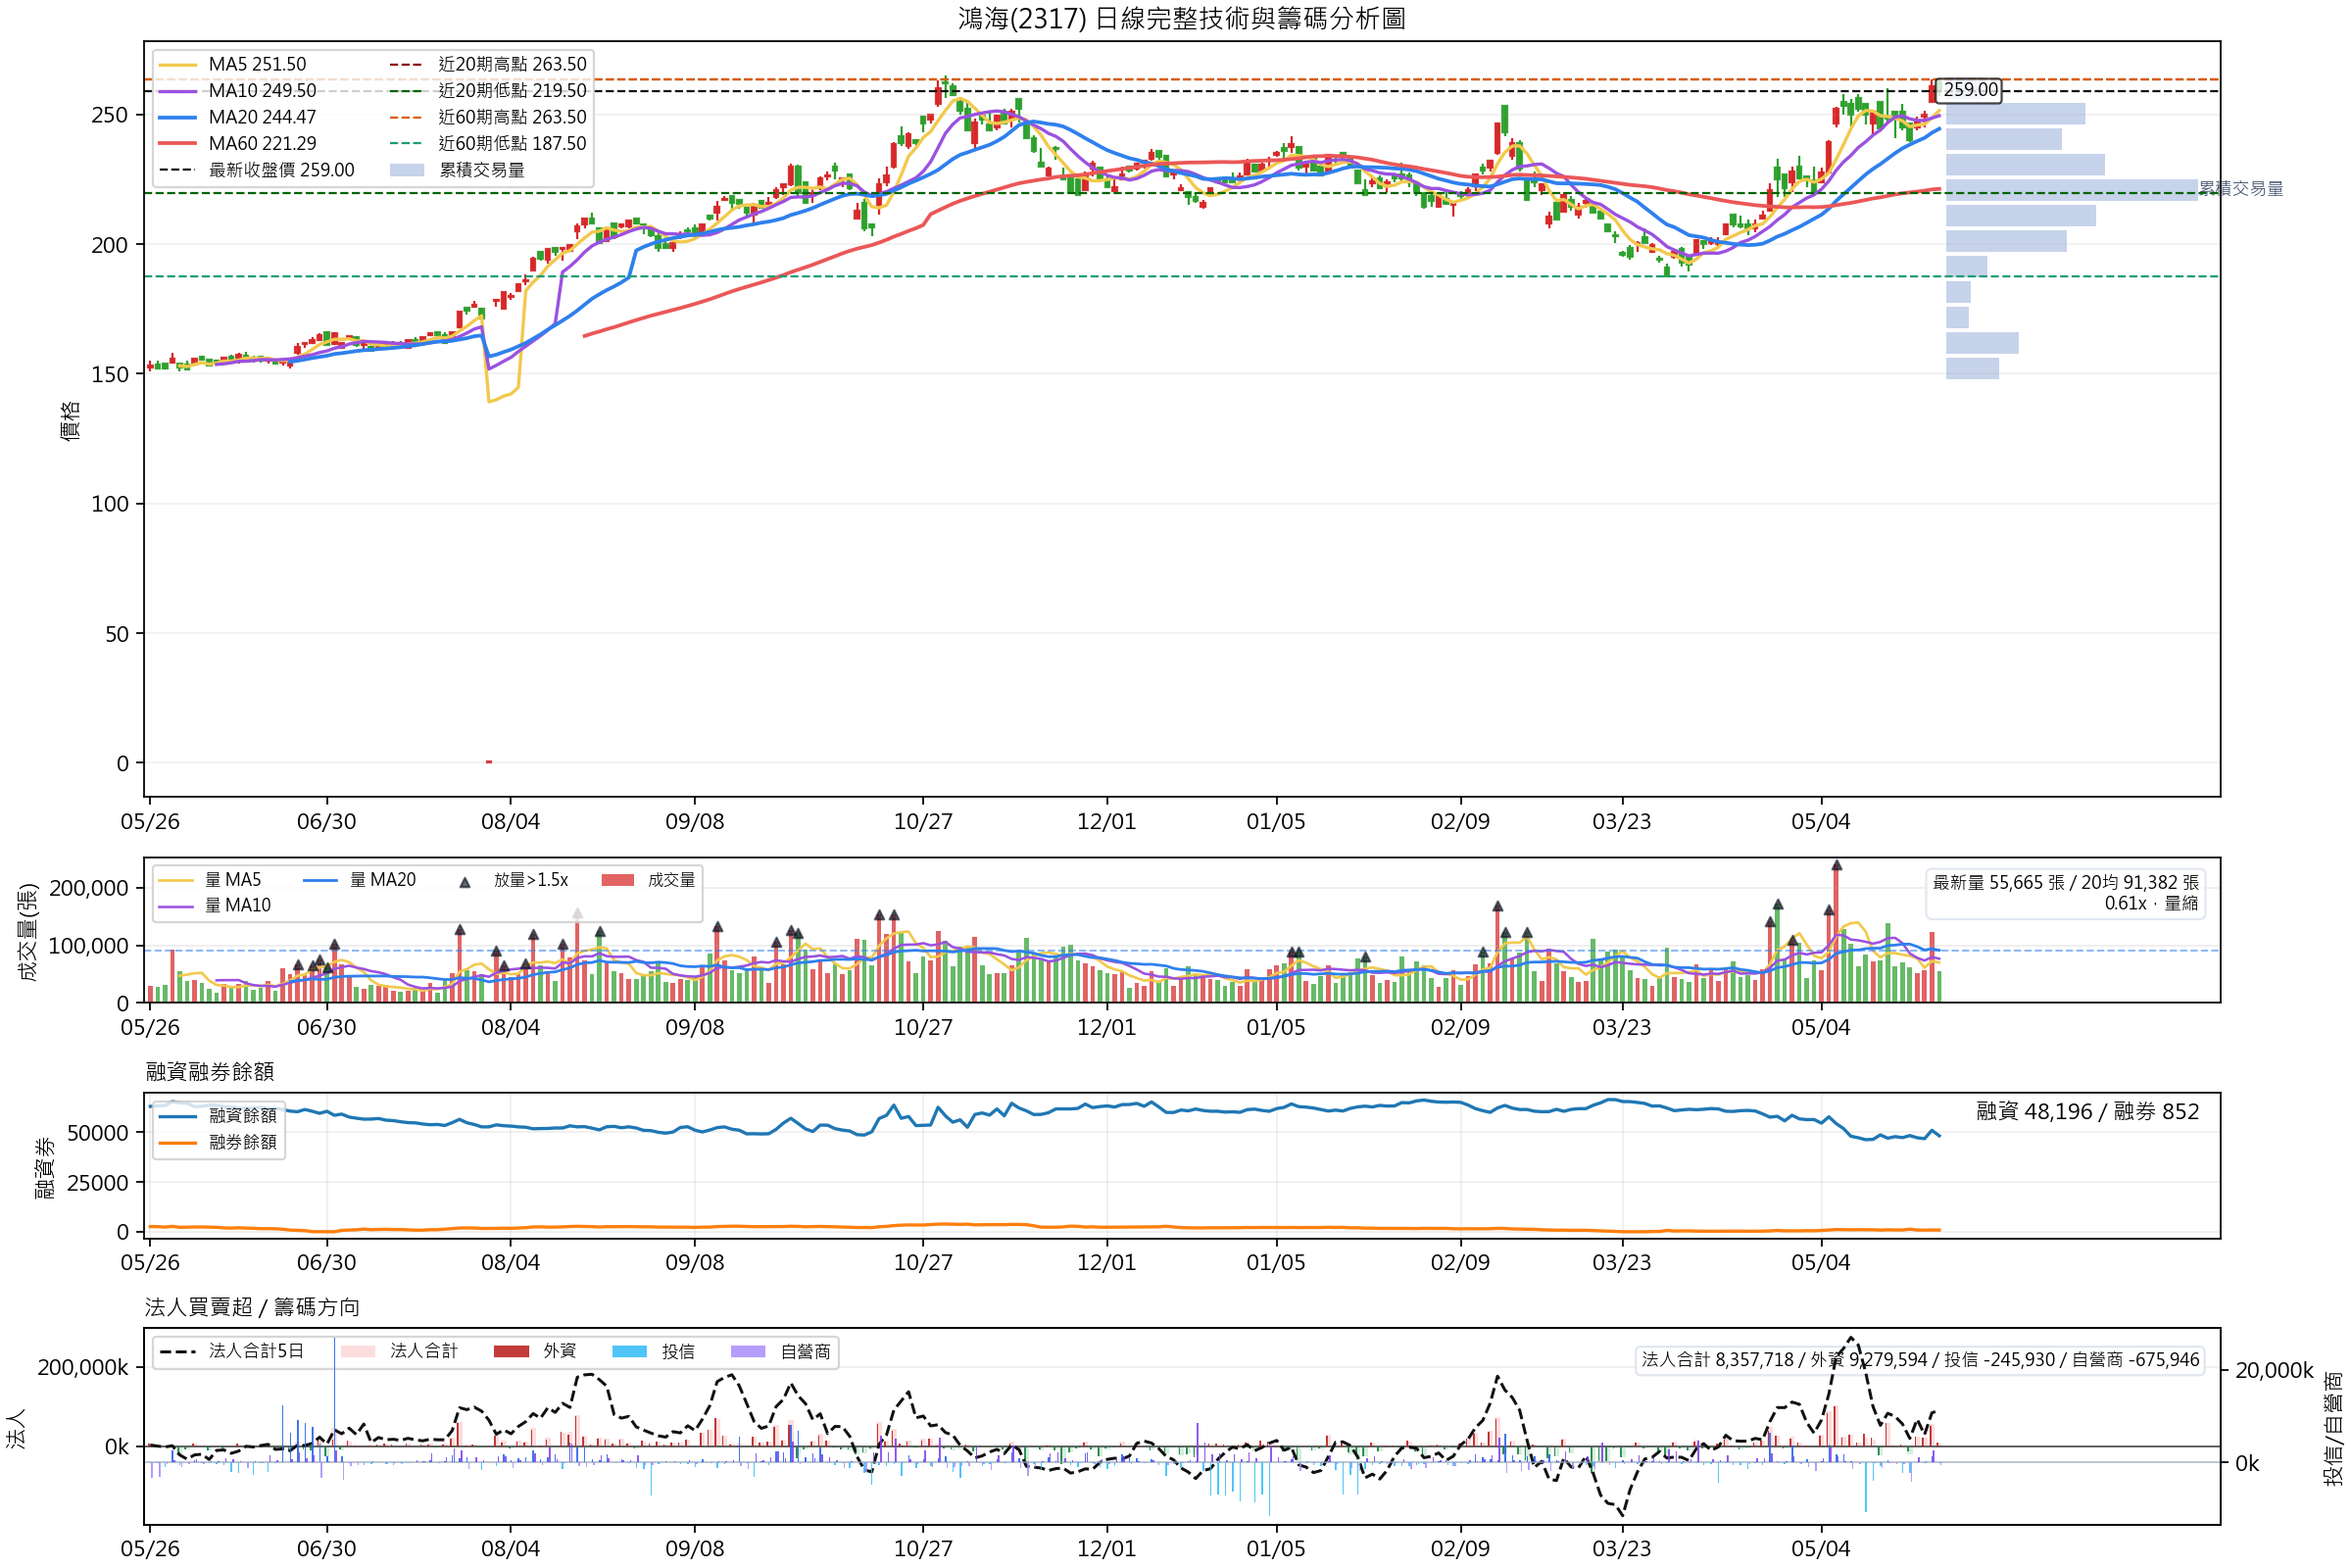
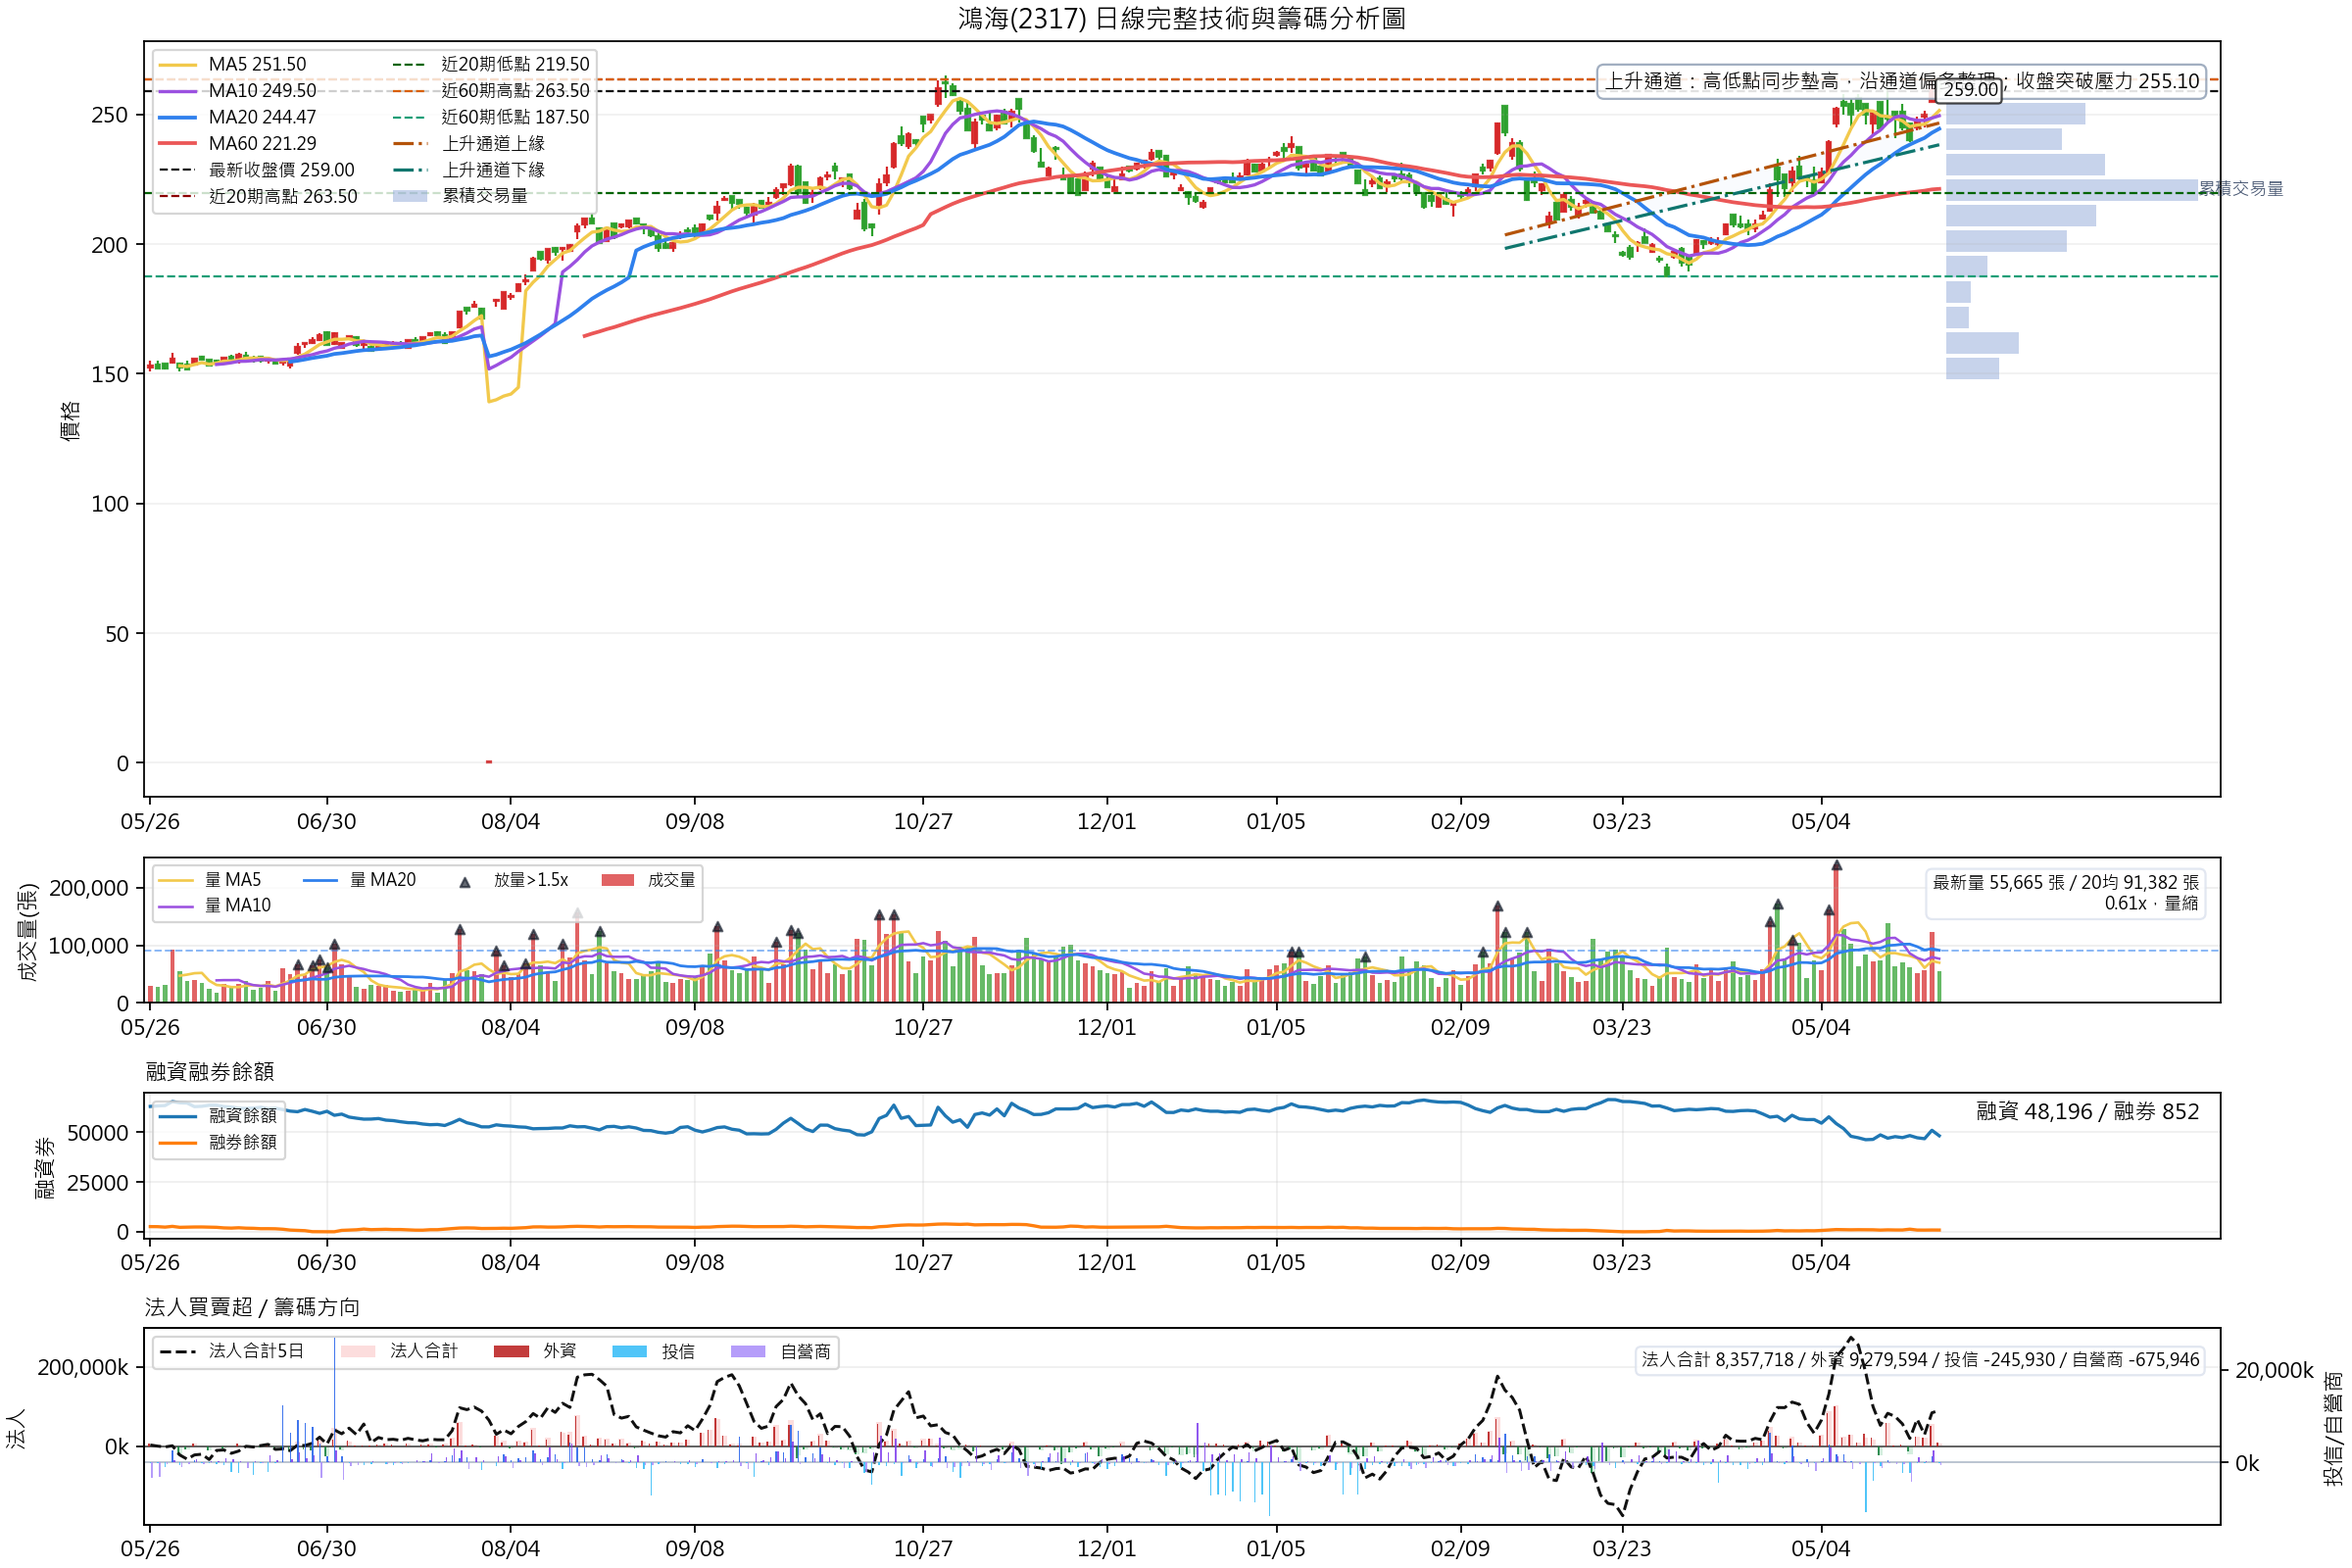
Publish stock report 2317_2026-05-26

diff --git a/2317_2026-05-26/index.html b/2317_2026-05-26/index.html
@@ -112,7 +112,7 @@
 <body>
   <header>
     <h1>鴻海(2317) 台股技術分析報告</h1>
-    <div>產生時間：2026-05-26T22:50:25+08:00</div>
+    <div>產生時間：2026-05-26T22:55:15+08:00</div>
   </header>
   <main>
     
@@ -120,6 +120,7 @@
       <h2>結論摘要</h2>
       <div class="summary-grid"><div class="summary-card"><span>一句話</span><strong>偏多強勢，偏多震盪；站穩 MA10 249.50 並突破 263.50 才有續攻機會，跌破 MA20 244.47 轉防守。</strong></div>
 <div class="summary-card"><span>明日觀察</span><strong>價跌量縮；明日觀察 MA5 251.50 / MA10 249.50</strong></div>
+<div class="summary-card"><span>K 線型態</span><strong>上升通道：高低點同步墊高，沿通道偏多整理；收盤突破壓力 255.10</strong></div>
 <div class="summary-card"><span>支撐</span><strong>第一 251.50 / 第二 249.50 / 強 244.47</strong></div>
 <div class="summary-card"><span>壓力</span><strong>263.50</strong></div>
 <div class="summary-card"><span>權證對現股</span><strong>中性偏投機</strong></div>
@@ -131,7 +132,7 @@
       <h2>GPT-5.5 深度分析</h2>
       <div class="deep-analysis-body">
         <h2>鴻海(2317) 深度分析</h2>
-<ul><li>產生時間：2026-05-26T22:50:33+08:00</li></ul>
+<ul><li>產生時間：2026-05-26T22:55:29+08:00</li></ul>
 <h3>1. 核心結論</h3>
 <p>鴻海(2317)：偏多強勢，偏多震盪；站穩 MA10 249.50 並突破 263.50 才有續攻機會，跌破 MA20 244.47 轉防守。</p>
 <h3>2. 技術面</h3>
@@ -261,37 +262,37 @@
     
         <section class="panel chart-panel">
           <h2>01_日線完整技術與籌碼分析圖</h2>
-          <img src="01_日線完整技術與籌碼分析圖.png?v=2026-05-26T22:50:25+08:00" alt="01_日線完整技術與籌碼分析圖">
+          <img src="01_日線完整技術與籌碼分析圖.png?v=2026-05-26T22:55:15+08:00" alt="01_日線完整技術與籌碼分析圖">
         </section>
         
 
         <section class="panel chart-panel">
           <h2>02_周線完整技術與趨勢分析圖</h2>
-          <img src="02_周線完整技術與趨勢分析圖.png?v=2026-05-26T22:50:25+08:00" alt="02_周線完整技術與趨勢分析圖">
+          <img src="02_周線完整技術與趨勢分析圖.png?v=2026-05-26T22:55:15+08:00" alt="02_周線完整技術與趨勢分析圖">
         </section>
         
 
         <section class="panel chart-panel">
           <h2>03_月線完整技術與長期趨勢分析圖</h2>
-          <img src="03_月線完整技術與長期趨勢分析圖.png?v=2026-05-26T22:50:25+08:00" alt="03_月線完整技術與長期趨勢分析圖">
+          <img src="03_月線完整技術與長期趨勢分析圖.png?v=2026-05-26T22:55:15+08:00" alt="03_月線完整技術與長期趨勢分析圖">
         </section>
         
 
         <section class="panel chart-panel">
           <h2>04_權證完整分析圖</h2>
-          <img src="04_權證完整分析圖.png?v=2026-05-26T22:50:25+08:00" alt="04_權證完整分析圖">
+          <img src="04_權證完整分析圖.png?v=2026-05-26T22:55:15+08:00" alt="04_權證完整分析圖">
         </section>
         
 
         <section class="panel chart-panel">
           <h2>05_同族群比較分析圖</h2>
-          <img src="05_同族群比較分析圖.png?v=2026-05-26T22:50:25+08:00" alt="05_同族群比較分析圖">
+          <img src="05_同族群比較分析圖.png?v=2026-05-26T22:55:15+08:00" alt="05_同族群比較分析圖">
         </section>
         
 
         <section class="panel chart-panel">
           <h2>06_基本面分析圖</h2>
-          <img src="06_基本面分析圖.png?v=2026-05-26T22:50:25+08:00" alt="06_基本面分析圖">
+          <img src="06_基本面分析圖.png?v=2026-05-26T22:55:15+08:00" alt="06_基本面分析圖">
         </section>
         
     

diff --git a/2317_2026-05-26/deep_analysis.md b/2317_2026-05-26/deep_analysis.md
@@ -1,6 +1,6 @@
 # 鴻海(2317) 深度分析
 
-- 產生時間：2026-05-26T22:50:33+08:00
+- 產生時間：2026-05-26T22:55:29+08:00
 - 模型：codex-local
 - reasoning_effort：none
 
